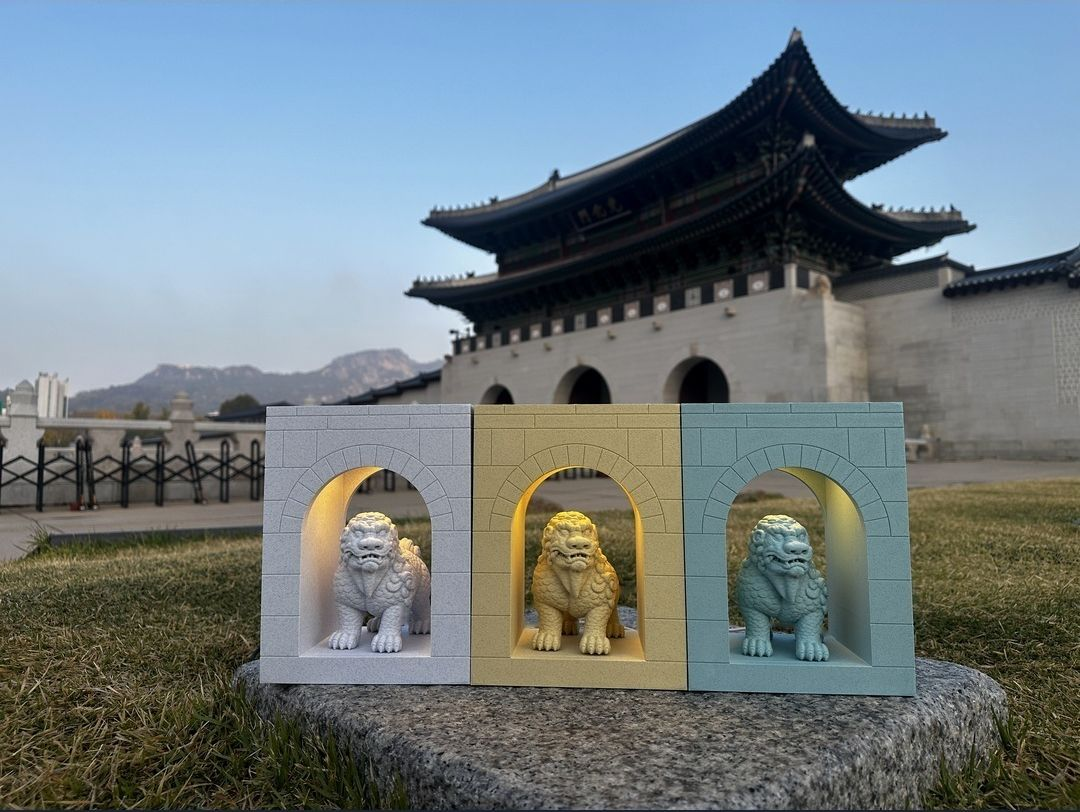
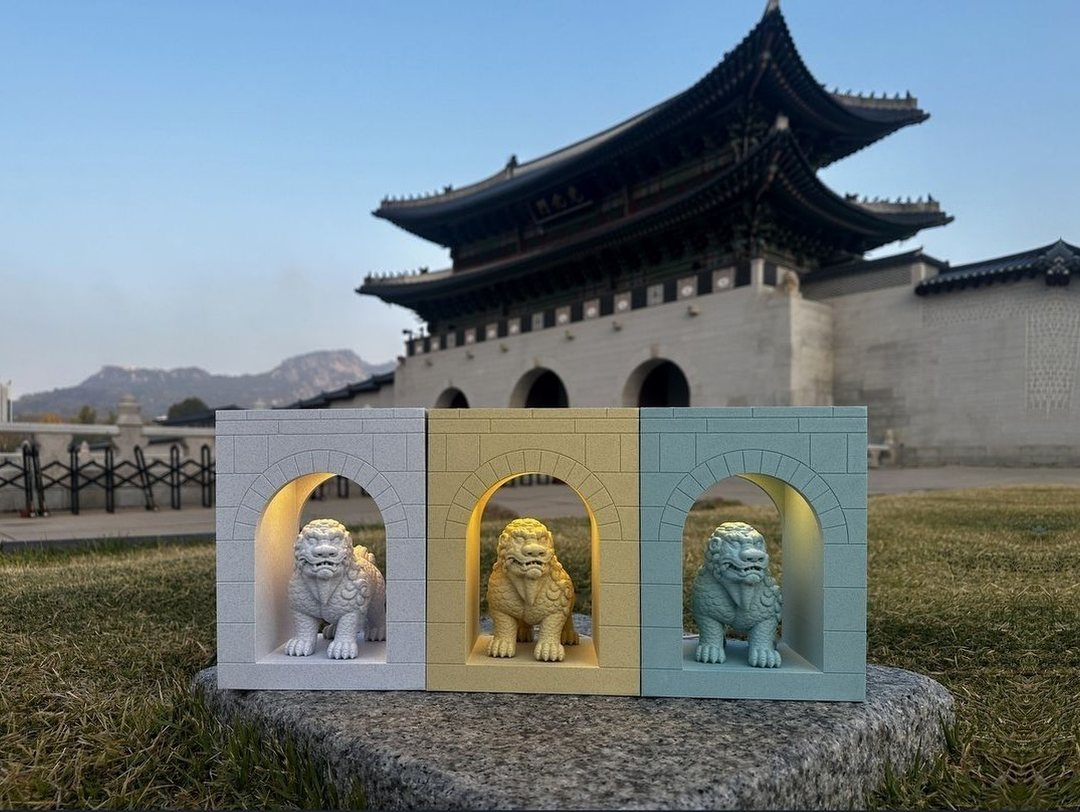
[Claude] 석등 · 광화수문: 사진 수직 · 수평 바로잡기, 유물 사진, 집 안에 놓은 모습
- 첫 화면 대표 · 카드 · 상세 쪽의 석등 · 광화수문 사진 10장을 수직 · 수평 맞추고 제품이 가운데 오게 다시 자름 (같은 사진, 제품 모양은 그대로)
- 석등 01 형태를 읽다: 실제 유물 사진(국가유산청 국가유산포털, 공공누리 제1유형)과 3D 모델을 나란히
- 광화수문 01 홍예문을 읽다: 광화문 앞 해치상 사진을 더하고, 패키지 사진은 03으로
- 두 쪽에 05 집 안에 놓다: 책상 · 거실에 둔 연출 이미지 (연출임을 글로 표시)
- 넓은 화면에서 상세 맨 위 사진의 제품이 잘리지 않게 보이는 자리 조정

diff --git a/gwanghwa/index.html b/gwanghwa/index.html
@@ -37,8 +37,8 @@
 <section class="hero detail-hero" aria-label="대표 이미지">
   <div class="slide on">
     <picture>
-      <source media="(min-width: 900px)" srcset="../img/hero_gw_d.jpg?v=3">
-      <img src="../img/hero_gw_m.jpg?v=4" alt="광화문 앞에 놓은 세 가지 색 광화수문 라이트박스" width="1200" height="1600" style="object-position: center 60%">
+      <source media="(min-width: 900px)" srcset="../img/hero_gw_d.jpg?v=4">
+      <img src="../img/hero_gw_m.jpg?v=5" alt="광화문 앞에 놓은 세 가지 색 광화수문 라이트박스" width="1200" height="1600" style="object-position: center 78%">
     </picture>
   </div>
   <p class="award-badge">제2회 서울 브랜드 굿즈 공모 선정</p>
@@ -75,11 +75,12 @@
       <div class="text">
         <span class="no cond">01 — FORM</span>
         <h2>홍예문을 읽다</h2>
-        <p>실제 광화문 사진에서 비례를 가져왔습니다. 홍예석은 15개, 아치 띠 두께는 문 반지름의 0.34배, 이맛돌도 띠와 같은 높이로 맞췄습니다. 해치는 출력할 때 입 안에 서포트가 서지 않도록 입 안쪽을 얕게 메웠습니다.</p>
+        <p>광화문 앞 해치는 옳고 그름을 가려낸다고 전해 오는 상상의 동물입니다. 실제 광화문 사진에서 비례를 가져왔습니다. 홍예석은 15개, 아치 띠 두께는 문 반지름의 0.34배, 이맛돌도 띠와 같은 높이로 맞췄습니다. 해치는 출력할 때 입 안에 서포트가 서지 않도록 입 안쪽을 얕게 메웠습니다.</p>
+        <p class="note">왼쪽은 광화문 앞 해치상, 오른쪽은 그 옆에서 든 광화수문입니다.</p>
       </div>
       <div class="pair">
-        <img src="../img/gw_story.jpg?v=3" alt="광화문 앞 해치상 옆에 든 광화수문 라이트박스" width="1080" height="1280" loading="lazy">
-        <img src="../img/gw_sand.jpg?v=3" alt="패키지 상자와 함께 놓은 흰색 광화수문 라이트박스" width="1080" height="1280" loading="lazy">
+        <img src="../img/gw_haechi.jpg" alt="광화문 앞 해치상과 광화문" width="1080" height="1280" loading="lazy">
+        <img src="../img/gw_story.jpg?v=4" alt="광화문 앞 해치상 옆에 든 광화수문 라이트박스" width="1080" height="1280" loading="lazy">
       </div>
     </article>
 
@@ -99,7 +100,10 @@
         <h2>출력하며 고치다</h2>
         <p>V9까지 출력과 수정을 반복했습니다. 첫 출력에서 바닥이 부풀어 바닥 속을 비우고 리브로 묶었고, 옆벽이 눌려 한 장으로 붙였습니다. 몸통의 서포트를 없애 한 세트 출력 시간을 45분 줄였고, 홍예석을 실제 비율로 다시 나눴습니다. 같은 구조로 75% 크기의 M도 만들었습니다.</p>
       </div>
-      <div class="pic"><img src="../img/gw_lm.jpg?v=4" alt="광화문 앞에 나란히 놓은 광화수문 L과 M" width="1400" height="1050" loading="lazy"></div>
+      <div class="pair">
+        <img src="../img/gw_lm_45.jpg" alt="광화문 앞에 나란히 놓은 광화수문 L과 M" width="1080" height="1280" loading="lazy">
+        <img src="../img/gw_sand.jpg?v=4" alt="패키지 상자와 함께 놓은 흰색 광화수문 라이트박스" width="1080" height="1280" loading="lazy">
+      </div>
     </article>
 
     <article class="step">
@@ -108,7 +112,20 @@
         <h2>불을 켜다</h2>
         <p>문 안쪽 천장에 숨긴 USB 원형 LED가 아치 안쪽 벽과 해치를 비춥니다. LED는 홀더에 얹고 ㄱ자 뒷판의 누름살로 잡아, 정면에서는 빛만 보입니다.</p>
               </div>
-      <div class="pic"><img src="../img/gw_lit_real.jpg?v=3" alt="광화문광장에서 불을 켠 세 가지 색 광화수문 라이트박스" width="1080" height="812" loading="lazy"></div>
+      <div class="pic"><img src="../img/gw_lit_real.jpg?v=4" alt="광화문광장에서 불을 켠 세 가지 색 광화수문 라이트박스" width="1080" height="812" loading="lazy"></div>
+    </article>
+
+    <article class="step">
+      <div class="text">
+        <span class="no cond">05 — SCENE</span>
+        <h2>집 안에 놓다</h2>
+        <p>퇴근 후 책상 위나 거실 장식장에 켜 두는 작은 문입니다. 문 안의 빛이 해치를 비추고 문 밖으로 은은하게 번집니다.</p>
+        <p class="note">두 장은 실제 제품 사진을 바탕으로 그린 연출 이미지입니다. 주변 물건과의 크기 비율은 실제와 조금 다를 수 있습니다.</p>
+      </div>
+      <div class="pair">
+        <img src="../img/gw_scene_desk.jpg" alt="저녁 책상 위에 켜 둔 샌드스톤 광화수문 (연출된 이미지)" width="1080" height="1280" loading="lazy">
+        <img src="../img/gw_scene_home.jpg" alt="거실 장식장 위에 켜 둔 흰색 광화수문 (연출된 이미지)" width="1080" height="1280" loading="lazy">
+      </div>
     </article>
   </section>
 

diff --git a/boneul/index.html b/boneul/index.html
@@ -37,8 +37,8 @@
 <section class="hero detail-hero" aria-label="대표 사진">
   <div class="slide on">
     <picture>
-      <source media="(min-width: 900px)" srcset="../img/hero_lant_d.jpg?v=3">
-      <img src="../img/lant_hero_real.jpg?v=3" alt="가을 나무 앞에 불을 켠 흰색 석등 무드등" width="1080" height="1280" style="object-position: center 60%">
+      <source media="(min-width: 900px)" srcset="../img/hero_lant_d.jpg?v=4">
+      <img src="../img/lant_hero_real.jpg?v=4" alt="가을 나무 앞에 불을 켠 흰색 석등 무드등" width="1080" height="1280" style="object-position: center 25%">
     </picture>
   </div>
 </section>
@@ -70,9 +70,13 @@
       <div class="text">
         <span class="no cond">01 — FORM</span>
         <h2>형태를 읽다</h2>
-        <p>지붕돌, 불을 넣는 화사석, 기둥, 2단 받침. 원래 석등의 층과 비례를 살려 3D 모델로 다시 그렸습니다.</p>
+        <p>나주 서성문 안 석등(보물)은 고려 선종 10년(1093)에 세운 석등입니다. 지붕돌, 불을 넣는 화사석, 기둥, 2단 받침. 원래 석등의 층과 비례를 살려 3D 모델로 다시 그렸습니다.</p>
+        <p class="note">왼쪽은 실제 유물입니다. 사진 국가유산청 국가유산포털 (공공누리 제1유형).</p>
       </div>
-      <div class="pic light"><img src="../img/lant_model.jpg" alt="석등 L과 M의 3D 모델" width="660" height="640" loading="lazy"></div>
+      <div class="pair">
+        <img src="../img/lant_heritage.jpg" alt="보물 나주 서성문 안 석등의 실제 모습" width="1080" height="1280" loading="lazy">
+        <img src="../img/lant_model_L.jpg" alt="석등 무드등 L의 3D 모델" width="1080" height="1280" loading="lazy">
+      </div>
     </article>
 
     <article class="step">
@@ -100,6 +104,19 @@
         <p>세 가지 돌 색으로 정리하고 디자인 출원을 마쳤습니다. 보늘 스마트스토어에서 판매를 준비하고 있습니다.</p>
       </div>
       <div class="pic"><video class="loop" autoplay muted loop playsinline preload="metadata" poster="../img/lant_flame_poster.jpg?v=2" width="960" height="640" aria-label="가을 나무 앞에서 세 가지 색 석등 무드등의 불꽃 LED가 일렁이는 실제 촬영 영상"><source src="../img/lant_flame.mp4?v=2" type="video/mp4"></video></div>
+    </article>
+
+    <article class="step">
+      <div class="text">
+        <span class="no cond">05 — SCENE</span>
+        <h2>집 안에 놓다</h2>
+        <p>책상 위나 거실 장식장에 두고 저녁에 켜 두는 등입니다. 방을 환하게 밝히기보다 은은하게 자리를 지킵니다.</p>
+        <p class="note">두 장은 실제 제품 사진을 바탕으로 그린 연출 이미지입니다. 주변 물건과의 크기 비율은 실제와 조금 다를 수 있습니다.</p>
+      </div>
+      <div class="pair">
+        <img src="../img/lant_scene_desk.jpg" alt="저녁 책상 위에 켜 둔 흰색 석등 무드등 (연출된 이미지)" width="1080" height="1280" loading="lazy">
+        <img src="../img/lant_scene_home.jpg" alt="거실 장식장 위에 켜 둔 샌드스톤 석등 무드등 (연출된 이미지)" width="1080" height="1280" loading="lazy">
+      </div>
     </article>
   </section>
 

diff --git a/index.html b/index.html
@@ -47,8 +47,8 @@
 <section class="hero home" data-hero aria-label="대표 작업 사진">
   <a class="slide on" href="boneul/" data-tag="STONE LANTERN" data-name="나주 서문 석등 무드등" aria-label="석등 무드등 작업 보기">
     <picture>
-      <source media="(min-width: 900px)" srcset="img/hero_lant_d.jpg?v=3">
-      <img src="img/hero_lant_m.jpg?v=3" alt="가을 나무 앞에 불을 켠 흰색 석등 무드등" width="1080" height="1280">
+      <source media="(min-width: 900px)" srcset="img/hero_lant_d.jpg?v=4">
+      <img src="img/hero_lant_m.jpg?v=4" alt="가을 나무 앞에 불을 켠 흰색 석등 무드등" width="1080" height="1280">
     </picture>
   </a>
   <a class="slide" href="hexatrail/" data-tag="MEDAL CASE" data-name="러닝 메달케이스" aria-label="러닝 메달케이스 작업 보기" tabindex="-1">
@@ -59,8 +59,8 @@
   </a>
   <a class="slide" href="gwanghwa/" data-tag="HAECHI GATE" data-name="광화수문 · 광화문 해치 라이트박스" aria-label="광화수문 라이트박스 작업 보기" tabindex="-1">
     <picture>
-      <source media="(min-width: 900px)" srcset="img/hero_gw_d.jpg?v=3">
-      <img src="img/hero_gw_m.jpg?v=4" alt="광화문 앞에 놓은 세 가지 색 광화수문 라이트박스" width="1200" height="1600" loading="lazy">
+      <source media="(min-width: 900px)" srcset="img/hero_gw_d.jpg?v=4">
+      <img src="img/hero_gw_m.jpg?v=5" alt="광화문 앞에 놓은 세 가지 색 광화수문 라이트박스" width="1200" height="1600" loading="lazy">
     </picture>
     <span class="award-badge">제2회 서울 브랜드 굿즈 공모 선정</span>
   </a>
@@ -101,7 +101,7 @@
     <ul class="tiles">
       <li class="rv">
         <a class="tile" href="boneul/">
-          <div class="ph"><img src="img/lant_case.jpg?v=3" alt="광화문 앞에 불을 켠 세 가지 색 석등 무드등" width="1080" height="810" loading="lazy"></div>
+          <div class="ph"><img src="img/lant_case.jpg?v=4" alt="광화문 앞에 불을 켠 세 가지 색 석등 무드등" width="1080" height="810" loading="lazy"></div>
           <div class="meta"><span class="no cond">01</span><span class="t cond"><span>STONE LANTERN</span></span><span class="k">나주 서문 석등 무드등</span></div>
         </a>
       </li>
@@ -113,7 +113,7 @@
       </li>
       <li class="rv">
         <a class="tile" href="gwanghwa/">
-          <div class="ph"><span class="award-badge">제2회 서울 브랜드 굿즈 공모 선정</span><img src="img/gw_case_real.jpg?v=3" alt="광화문 앞에 놓은 세 가지 색 광화수문 라이트박스" width="1080" height="812" loading="lazy"></div>
+          <div class="ph"><span class="award-badge">제2회 서울 브랜드 굿즈 공모 선정</span><img src="img/gw_case_real.jpg?v=4" alt="광화문 앞에 놓은 세 가지 색 광화수문 라이트박스" width="1080" height="812" loading="lazy"></div>
           <div class="meta"><span class="no cond">03</span><span class="t cond"><span>HAECHI GATE</span></span><span class="k">광화수문 라이트박스</span></div>
         </a>
       </li>
